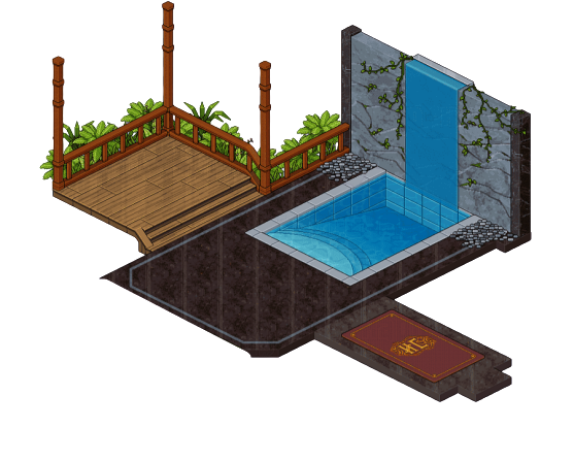
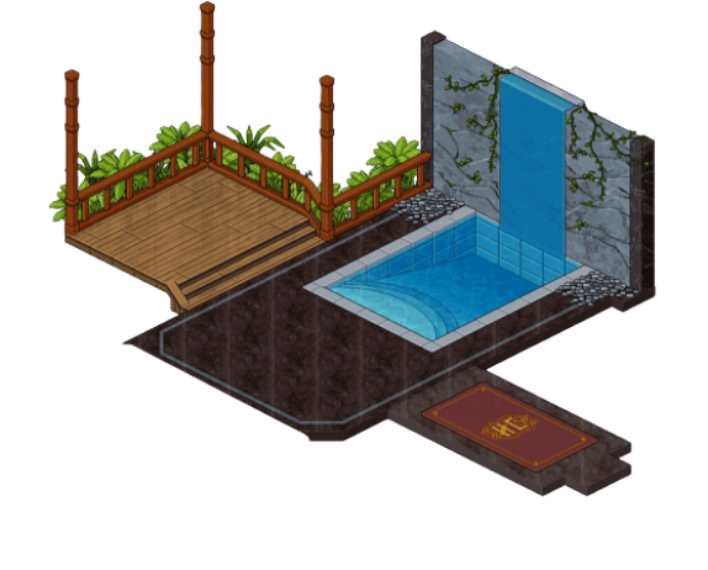
fire and water added

diff --git a/src/main/java/org/academiadecodigo/felinux/tools/DirectionType.java b/src/main/java/org/academiadecodigo/felinux/tools/DirectionType.java
@@ -2,11 +2,11 @@ package org.academiadecodigo.felinux.tools;
 
 public enum DirectionType {
 
-    UP(new String[]{"img/mansion/purgatory/image4532.png", "/img/chars/girl/WALK_FRONT_4.png", "/img/chars/girl/WALK_FRONT_4.png", "/img/chars/girl/WALK_FRONT_4.png"}),
-    DOWN(new String[]{"/img/chars/girl/WALK_FRONT_4.png", "/img/chars/girl/WALK_FRONT_4.png", "/img/chars/girl/WALK_FRONT_4.png", "/img/chars/girl/WALK_FRONT_4.png"}),
-    LEFT(new String[]{"/img/chars/girl/WALK_FRONT_4.png", "/img/chars/girl/WALK_FRONT_4.png", "/img/chars/girl/WALK_FRONT_4.png", "/img/chars/girl/WALK_FRONT_4.png"}),
-    RIGHT(new String[]{"/img/chars/girl/WALK_FRONT_4.png", "/img/chars/girl/WALK_FRONT_4.png", "/img/chars/girl/WALK_FRONT_4.png", "/img/chars/girl/WALK_FRONT_4.png"}),
-    IDLE(new String[]{"/img/chars/girl/WALK_FRONT_4.png", "/img/chars/girl/WALK_FRONT_4.png", "/img/chars/girl/WALK_FRONT_4.png", "/img/chars/girl/WALK_FRONT_4.png"});
+    FRONT(new String[]{"/img/chars/girl/WALK_BACK_1.png", "/img/chars/girl/WALK_BACK_2.png", "/img/chars/girl/WALK_BACK_3.png", "/img/chars/girl/WALK_BACK_4.png"}),
+    BACK(new String[]{"/img/chars/girl/WALK_FRONT_1.png", "/img/chars/girl/WALK_FRONT_2.png", "/img/chars/girl/WALK_FRONT_3.png", "/img/chars/girl/WALK_FRONT_4.png"}),
+    LEFT(new String[]{"/img/chars/girl/WALK_LEFT_1.png", "/img/chars/girl/WALK_LEFT_2.png", "/img/chars/girl/WALK_LEFT_3.png", "/img/chars/girl/WALK_LEFT_4.png"}),
+    RIGHT(new String[]{"/img/chars/girl/WALK_RIGHT_1.png", "/img/chars/girl/WALK_RIGHT_2.png", "/img/chars/girl/WALK_RIGHT_3.png", "/img/chars/girl/WALK_RIGHT_4.png"}),
+    IDLE(new String[]{"/img/chars/girl/WALK_FRONT_1.png", "/img/chars/girl/WALK_FRONT_2.png", "/img/chars/girl/WALK_FRONT_3.png", "/img/chars/girl/WALK_FRONT_4.png"});
 
     private String[] images;
 

diff --git a/src/main/java/org/academiadecodigo/felinux/GameObjects/model/Dorothy.java b/src/main/java/org/academiadecodigo/felinux/GameObjects/model/Dorothy.java
@@ -2,7 +2,6 @@ package org.academiadecodigo.felinux.GameObjects.model;
 
 import org.academiadecodigo.felinux.tools.DirectionType;
 import org.academiadecodigo.simplegraphics.pictures.Picture;
-import org.springframework.core.SpringVersion;
 
 public class Dorothy extends AbstractModel {
 
@@ -16,10 +15,11 @@ public class Dorothy extends AbstractModel {
 
 
     public Dorothy() {
-        this.prevDirection = DirectionType.DOWN;
-        direction = DirectionType.DOWN;
+        this.prevDirection = DirectionType.BACK;
+        direction = DirectionType.BACK;
         alive = true;
-        image = new Picture(250,250, "img/chars/girl/DEAD_LEFT_1.png");
+        image = new Picture(250,250, "img/chars/girl/IDLE_FRONT_1.png");
+        idle = true;
     }
 
     public int getHighnessLevel() {
@@ -62,6 +62,7 @@ public class Dorothy extends AbstractModel {
         int[] position = {
                 super.image.getX(),super.image.getY()
         };
+        System.out.println(super.image.getX()+" "+super.image.getY());
         Picture imageToDelete = null;
 
         if(idle || talking){
@@ -95,7 +96,7 @@ public class Dorothy extends AbstractModel {
 
     private String genIdleImage(DirectionType cdirection){
 
-        return "/img/chars/girl/IDLE_"+ cdirection +"_MexerNoCabelo1.png";
+        return "/img/chars/girl/IDLE_"+ cdirection +"_1.png";
     }
 
     public int getMoveCounter() {

diff --git a/src/main/java/org/academiadecodigo/felinux/View/MainView.java b/src/main/java/org/academiadecodigo/felinux/View/MainView.java
@@ -1,6 +1,8 @@
 package org.academiadecodigo.felinux.View;
 
 import org.academiadecodigo.felinux.GameObjects.model.Dorothy;
+import org.academiadecodigo.felinux.GameObjects.model.Fire;
+import org.academiadecodigo.felinux.GameObjects.model.Water;
 import org.academiadecodigo.felinux.controller.PlayerKeyboard;
 import org.academiadecodigo.felinux.map.Map;
 import org.academiadecodigo.simplegraphics.pictures.Picture;
@@ -22,7 +24,9 @@ public class MainView {
         final Map map = new Map();
 
         //TODO criar classe for purgatory
-        final Picture purgatory = new Picture(100, 50, "/img/mansion/purgatory/purgatory.png");
+        final Picture purgatory = new Picture(50, 50, "/img/mansion/purgatory/purgatory.png");
+        final Water water = new Water();
+        final Fire fire = new Fire();
 
         /**
          * Game Loop
@@ -40,8 +44,9 @@ public class MainView {
                             background.setHighEffect();
                         }
                         purgatory.draw();
-                        map.draw();
-                        //TODO joel
+                        //map.draw();
+                        water.animate();
+                        fire.animate();
                         dorothy.move();
 
                         try {

diff --git a/src/main/java/org/academiadecodigo/felinux/GameObjects/model/Water.java b/src/main/java/org/academiadecodigo/felinux/GameObjects/model/Water.java
@@ -1,0 +1,26 @@
+package org.academiadecodigo.felinux.GameObjects.model;
+
+import org.academiadecodigo.simplegraphics.pictures.Picture;
+
+public class Water {
+
+    private int counter = 0;
+
+    private Picture water = new Picture(496,180, "/img/element/water/water_1.png");
+
+    public Water(){
+        water.draw();
+    }
+
+    public void animate(){
+        this.water.delete();
+        counter++;
+        if(counter == 9){
+            counter = 1;
+            water = new Picture(480,240, "/img/element/water/water_" + counter + ".png");
+            return;
+        }
+        water = new Picture(480,284, "/img/element/water/water_" + counter + ".png");
+        water.draw();
+    }
+}

diff --git a/src/main/java/org/academiadecodigo/felinux/controller/PlayerKeyboard.java b/src/main/java/org/academiadecodigo/felinux/controller/PlayerKeyboard.java
@@ -148,13 +148,13 @@ public class PlayerKeyboard implements KeyboardHandler {
 
         if(keyboardEvent.getKey() == KeyboardEvent.KEY_W||keyboardEvent.getKey() == KeyboardEvent.KEY_UP){
             player.setDy(player.getDy()-moveSpeed);;
-            player.setDirection(UP);
+            player.setDirection(FRONT);
             player.setIdle(false);
         }
 
         if(keyboardEvent.getKey() == KeyboardEvent.KEY_S||keyboardEvent.getKey() == KeyboardEvent.KEY_DOWN){
             player.setDy(player.getDy()+moveSpeed);;
-            player.setDirection(DOWN);
+            player.setDirection(BACK);
             player.setIdle(false);
         }
 

diff --git a/src/main/java/org/academiadecodigo/felinux/GameObjects/model/Fire.java b/src/main/java/org/academiadecodigo/felinux/GameObjects/model/Fire.java
@@ -1,0 +1,26 @@
+package org.academiadecodigo.felinux.GameObjects.model;
+
+import org.academiadecodigo.simplegraphics.pictures.Picture;
+
+public class Fire {
+
+    private int counter = 0;
+
+    private Picture fire = new Picture(185,170, "/img/element/fire/fire_1.png");
+
+    public Fire(){
+        fire.draw();
+    }
+
+    public void animate(){
+
+        this.fire.delete();
+
+        counter++;
+        if(counter == 15){
+            counter = 1;
+        }
+        fire = new Picture(185,170, "/img/element/fire/fire_" + counter + ".png");
+        fire.draw();
+    }
+}

diff --git a/src/main/java/org/academiadecodigo/felinux/View/Background.java b/src/main/java/org/academiadecodigo/felinux/View/Background.java
@@ -6,7 +6,7 @@ import org.springframework.beans.factory.annotation.Autowired;
 
 public class Background  {
 
-    private Rectangle rectangle = new Rectangle(5,5,800,600);
+    private Rectangle rectangle = new Rectangle(10,10,800,600);
     private static int red = 0;
     private static int green = 0;
     private static int blue = 0;
